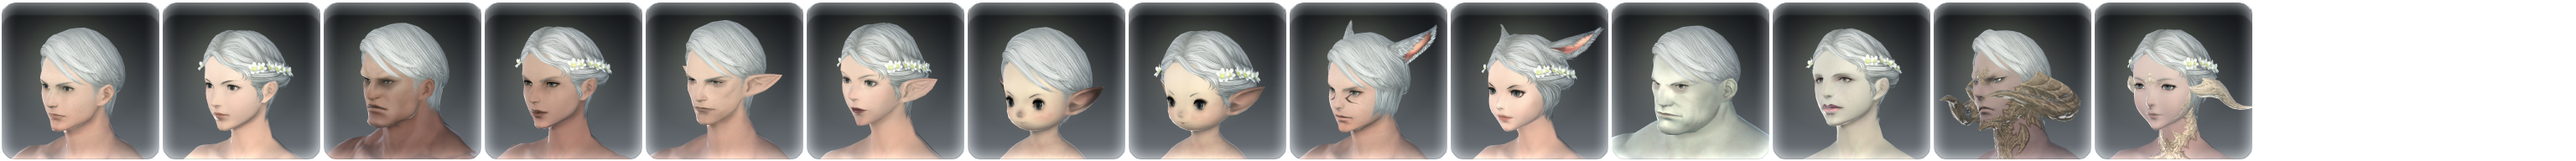
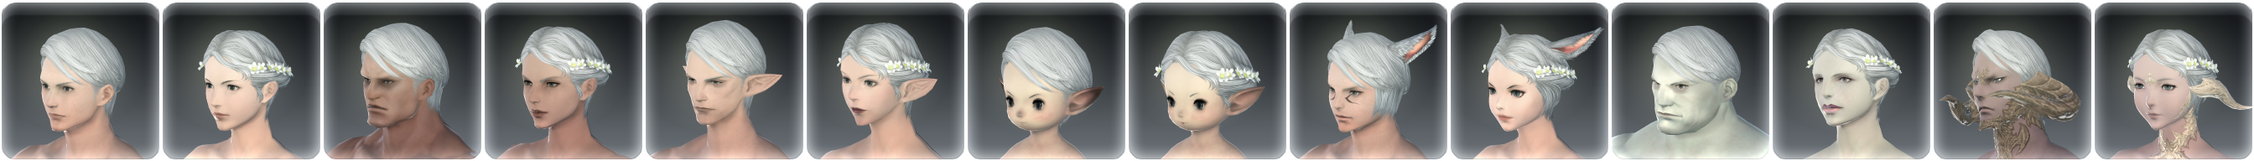
Add face paint to Hairstyles
Improves Hairstyle image rendering by getting an exact count on how many
images we have. Removes center justification.

diff --git a/app/models/hairstyle.rb b/app/models/hairstyle.rb
@@ -22,4 +22,8 @@
 class Hairstyle < ApplicationRecord
   include Collectable
   translates :name, :description
+
+  def image_count
+    Dir.glob(Rails.root.join("public/images/hairstyles/#{id}/*.png")).size
+  end
 end
